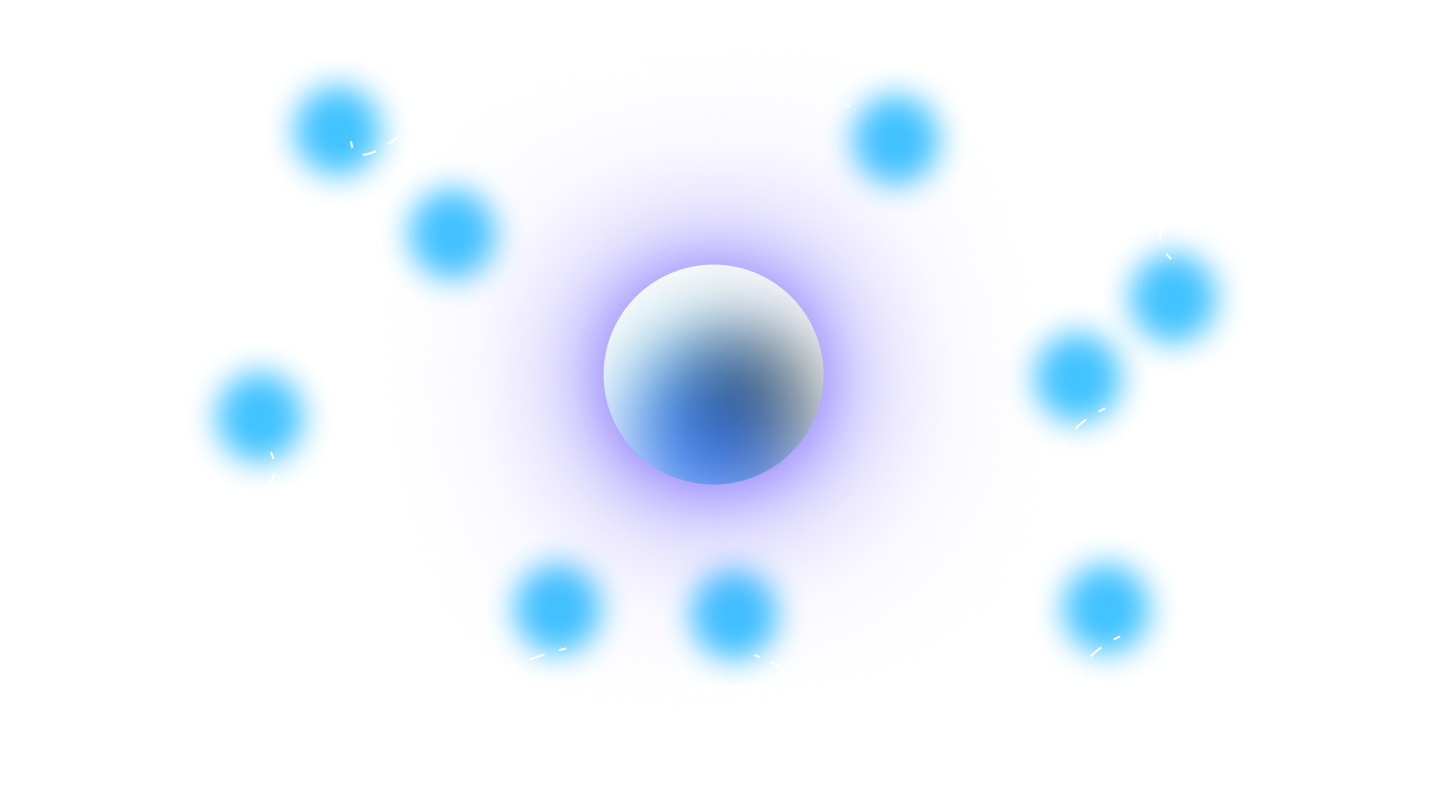
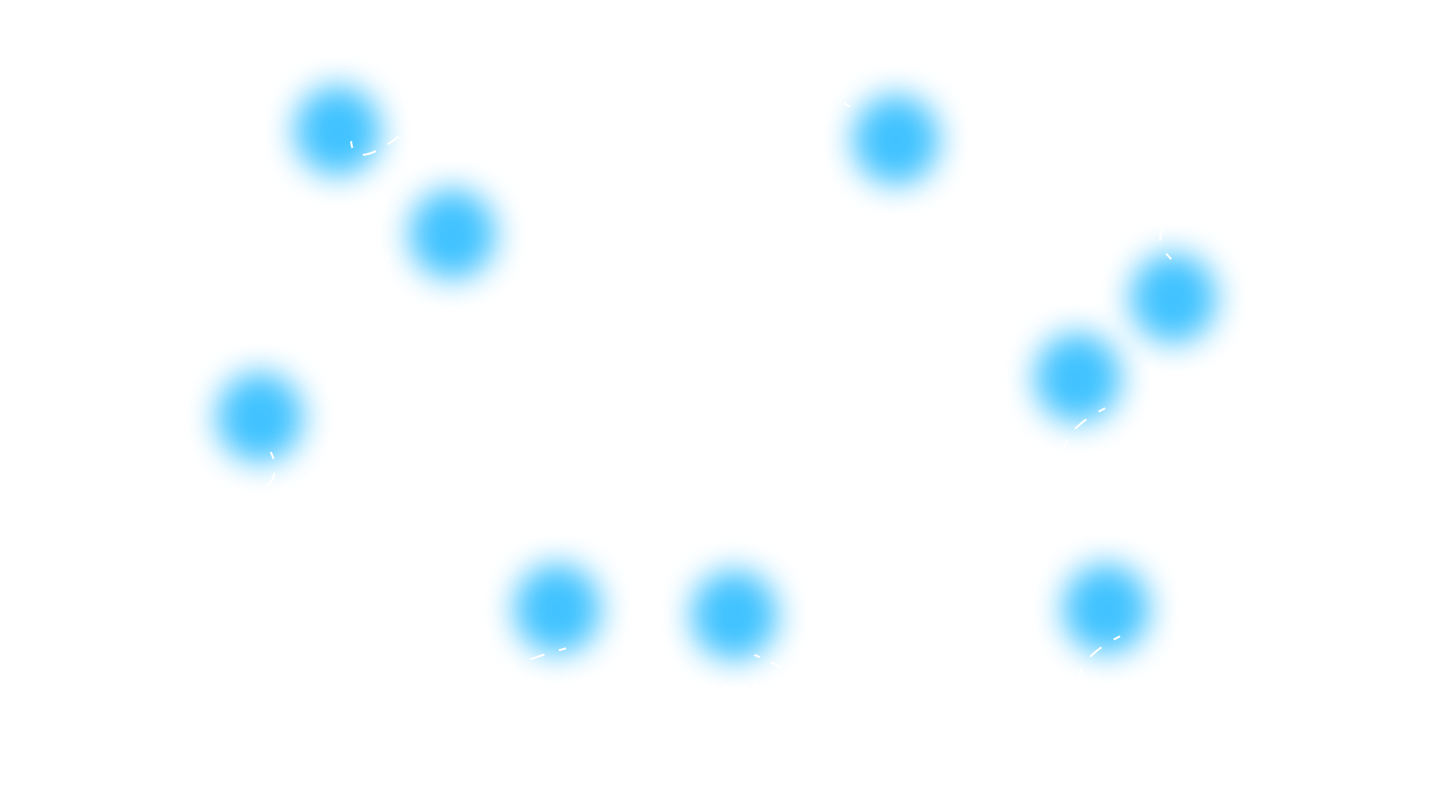
changes

Changed region(s): [[0.3682, 0.2491, 0.6444, 0.7161]]

diff --git a/components/TransitionScreen.tsx b/components/TransitionScreen.tsx
@@ -4,16 +4,41 @@ import { motion, AnimatePresence } from "framer-motion"
 import { useRouter } from "next/navigation"
 import TeamSection from "./TeamSection"
 
-export default function TransitionScreen() {
+export default function TransitionScreen({
+    isAnimating = false,
+    spherePosition = { x: 0, y: 0 },
+    onAnimationComplete = () => { },
+}) {
     const [showFourthScreen, setShowFourthScreen] = useState(false)
     const [showTeam, setShowTeam] = useState(false)
+    const [sphereArrived, setSphereArrived] = useState(false)
     const router = useRouter()
     const containerRef = useRef<HTMLDivElement>(null)
+    const orbitRef = useRef<HTMLDivElement>(null)
+    const sphereRef = useRef<HTMLDivElement>(null)
 
     useEffect(() => {
+        // Show the orbit services image after a delay
         const timer = setTimeout(() => {
             setShowFourthScreen(true)
         }, 500)
+
+        // Start animation sequence if isAnimating is true
+        if (isAnimating) {
+            // Mark as arrived after animation completes
+            const arrivalTimer = setTimeout(() => {
+                setSphereArrived(true)
+
+                // Notify parent component that animation is complete
+                setTimeout(() => {
+                    onAnimationComplete()
+                }, 500) // Give a little time for the arrival animation to play
+            }, 3500)
+
+            return () => {
+                clearTimeout(arrivalTimer)
+            }
+        }
 
         const handleScroll = () => {
             if (containerRef.current) {
@@ -32,10 +57,122 @@ export default function TransitionScreen() {
             clearTimeout(timer)
             window.removeEventListener("scroll", handleScroll)
         }
-    }, [router])
+    }, [isAnimating, onAnimationComplete])
+
+    // Calculate the center of the screen and orbit
+    // Adjust the target position to be 15% above the center, then move down by 38px (approximately 1cm)
+    const screenCenterY = typeof window !== "undefined" ? window.innerHeight / 2 : 0
+    const targetPositionY = typeof window !== "undefined" ? screenCenterY - window.innerHeight * 0.15 + 38 : 0
+    const screenCenterX = typeof window !== "undefined" ? window.innerWidth / 2 : 0
 
     return (
-        <div ref={containerRef} className="relative min-h-screen overflow-x-hidden ">
+        <div ref={containerRef} className="relative min-h-screen overflow-x-hidden">
+            {/* Animated sphere */}
+            {isAnimating && !sphereArrived && (
+                <>
+                    {/* Vertical guide line */}
+                    <motion.div
+                        className="fixed z-40 pointer-events-none"
+                        initial={{ opacity: 0, height: 0 }}
+                        animate={{ opacity: 0.6, height: targetPositionY - spherePosition.y }}
+                        transition={{ duration: 3, ease: "easeInOut" }}
+                        style={{
+                            position: "fixed",
+                            top: spherePosition.y,
+                            left: "50%",
+                            width: "4px",
+                            background: "linear-gradient(to bottom, rgba(255,255,255,0.8), rgba(255,255,255,0.2))",
+                            transformOrigin: "top",
+                            marginLeft: "-2px",
+                        }}
+                    />
+
+                    {/* Traveling sphere that shrinks as it descends */}
+                    <motion.div
+                        ref={sphereRef}
+                        className="fixed z-50 pointer-events-none"
+                        initial={{
+                            top: spherePosition.y,
+                            left: "50%",
+                            x: "-50%",
+                            y: "-50%",
+                            scale: 1,
+                            opacity: 1,
+                        }}
+                        animate={{
+                            top: targetPositionY,
+                            scale: [1, 0.9, 0.8, 0.7, 0.6, 0.5],
+                            opacity: 1,
+                            filter: [
+                                "brightness(1.7) drop-shadow(0 0 60px rgba(255,255,255,1))",
+                                "brightness(1.6) drop-shadow(0 0 55px rgba(255,255,255,0.95))",
+                                "brightness(1.5) drop-shadow(0 0 50px rgba(255,255,255,0.9))",
+                                "brightness(1.4) drop-shadow(0 0 45px rgba(255,255,255,0.85))",
+                                "brightness(1.3) drop-shadow(0 0 40px rgba(255,255,255,0.8))",
+                                "brightness(1.2) drop-shadow(0 0 35px rgba(255,255,255,0.75))",
+                            ],
+                        }}
+                        transition={{
+                            duration: 3,
+                            ease: "easeInOut",
+                            times: [0, 0.2, 0.4, 0.6, 0.8, 1],
+                        }}
+                        style={{
+                            width: "800px",
+                            height: "800px",
+                            position: "fixed",
+                        }}
+                    >
+                        <img src="./Frame 78.png" alt="Traveling Sphere" className="w-full h-full object-contain" />
+                    </motion.div>
+
+                    {/* Glow trail */}
+                    <motion.div
+                        className="fixed z-40 pointer-events-none"
+                        initial={{ opacity: 0 }}
+                        animate={{ opacity: [0, 0.6, 0.4, 0.2, 0] }}
+                        transition={{ duration: 3, times: [0, 0.2, 0.4, 0.7, 1] }}
+                        style={{
+                            position: "fixed",
+                            top: spherePosition.y,
+                            left: "50%",
+                            width: "200px",
+                            height: targetPositionY - spherePosition.y,
+                            background: "linear-gradient(to bottom, rgba(255,255,255,0), rgba(255,255,255,0.3), rgba(255,255,255,0))",
+                            borderRadius: "100px",
+                            marginLeft: "-100px",
+                        }}
+                    />
+
+                    {/* Destination indicator */}
+                    <motion.div
+                        className="fixed z-40 pointer-events-none"
+                        initial={{ opacity: 0, scale: 0 }}
+                        animate={{
+                            opacity: [0, 0.7, 0.5, 0.7, 0.5],
+                            scale: [0, 1, 0.8, 1, 0.8],
+                        }}
+                        transition={{
+                            duration: 2.5,
+                            times: [0, 0.25, 0.5, 0.75, 1],
+                            repeat: Number.POSITIVE_INFINITY,
+                            repeatType: "loop",
+                        }}
+                        style={{
+                            position: "fixed",
+                            top: targetPositionY,
+                            left: "50%",
+                            width: "100px",
+                            height: "100px",
+                            borderRadius: "50%",
+                            border: "3px dashed white",
+                            marginLeft: "-50px",
+                            marginTop: "-50px",
+                        }}
+                    />
+                </>
+            )}
+
             <div
                 className="relative w-full h-screen overflow-hidden"
                 style={{ background: "linear-gradient(to bottom, #044CD9, #1C67FB)" }}
@@ -53,12 +190,71 @@ export default function TransitionScreen() {
                         </motion.div>
                     ) : (
                         <motion.div
+                            ref={orbitRef}
                             key="fourth-screen"
                             initial={{ opacity: 0 }}
                             animate={{ opacity: 1 }}
                             transition={{ duration: 0.5, ease: "easeInOut" }}
                             className="absolute inset-0 flex items-center justify-center"
+                            id="orbit-center"
                         >
+                            {/* Center sphere that appears when the hero sphere "arrives" */}
+                            {sphereArrived && (
+                                <motion.div
+                                    className="absolute z-40 flex items-center justify-center"
+                                    initial={{ scale: 0.5, opacity: 0.75 }}
+                                    animate={{
+                                        scale: 0.5,
+                                        opacity: [0.75, 0.85, 0.95, 1, 0.95, 0.85, 0.75],
+                                        filter: [
+                                            "brightness(1.2) drop-shadow(0 0 35px rgba(255,255,255,0.75))",
+                                            "brightness(1.4) drop-shadow(0 0 40px rgba(255,255,255,0.85))",
+                                            "brightness(1.6) drop-shadow(0 0 45px rgba(255,255,255,0.95))",
+                                            "brightness(1.8) drop-shadow(0 0 50px rgba(255,255,255,1))",
+                                            "brightness(1.6) drop-shadow(0 0 45px rgba(255,255,255,0.95))",
+                                            "brightness(1.4) drop-shadow(0 0 40px rgba(255,255,255,0.85))",
+                                            "brightness(1.2) drop-shadow(0 0 35px rgba(255,255,255,0.75))",
+                                        ],
+                                    }}
+                                    transition={{
+                                        duration: 3,
+                                        repeat: Number.POSITIVE_INFINITY,
+                                        repeatType: "loop",
+                                    }}
+                                    style={{
+                                        top: targetPositionY,
+                                        left: "50%",
+                                        x: "-50%",
+                                        y: "-50%",
+                                        position: "absolute",
+                                    }}
+                                >
+                                    <img src="./Frame 78.png" alt="Center Sphere" className="w-[800px] h-[800px] object-contain" />
+                                </motion.div>
+                            )}
+
+                            {/* Orbit activation effect */}
+                            {sphereArrived && (
+                                <motion.div
+                                    className="absolute z-30 flex items-center justify-center"
+                                    initial={{ opacity: 0, scale: 0 }}
+                                    animate={{
+                                        opacity: [0, 0.8, 0.6, 0.4, 0.2, 0],
+                                        scale: [0, 1, 1.5, 2, 2.5, 3],
+                                    }}
+                                    transition={{ duration: 2, ease: "easeOut" }}
+                                    style={{
+                                        top: targetPositionY,
+                                        left: "50%",
+                                        x: "-50%",
+                                        y: "-50%",
+                                        position: "absolute",
+                                    }}
+                                >
+                                    <div className="w-96 h-96 rounded-full bg-white opacity-70 shadow-[0_0_30px_15px_rgba(255,255,255,0.6)]" />
+                                </motion.div>
+                            )}
+
                             <img src="/orbit-services.png" alt="ValuuHub Services Details" className="w-full h-full object-contain" />
                         </motion.div>
                     )}

diff --git a/components/Hero.tsx b/components/Hero.tsx
@@ -1,25 +1,79 @@
 "use client"
-import { useState } from "react"
-import { motion } from "framer-motion"
+import { useState, useRef } from "react"
+import { motion, useScroll } from "framer-motion"
 import TransitionScreen from "./TransitionScreen"
 
 export default function Hero() {
   const [showTransition, setShowTransition] = useState(false)
+  const [isAnimating, setIsAnimating] = useState(false)
+  const [spherePosition, setSpherePosition] = useState({ x: 0, y: 0 })
+  const [hideOriginalSphere, setHideOriginalSphere] = useState(false)
+  const heroRef = useRef<HTMLDivElement>(null)
+  const sphereRef = useRef<HTMLDivElement>(null)
+  const transitionRef = useRef<HTMLDivElement>(null)
+
+  // Track scroll position for animations
+  const { scrollYProgress } = useScroll({
+    target: heroRef,
+    offset: ["start start", "end start"],
+  })
 
   function handleGetInTouch() {
+    // Capture the current position of the sphere for animation
+    if (sphereRef.current) {
+      const rect = sphereRef.current.getBoundingClientRect()
+      setSpherePosition({
+        x: rect.left + rect.width / 2,
+        y: rect.top + rect.height / 2,
+      })
+    }
+
+    // Immediately hide the original sphere
+    setHideOriginalSphere(true)
+    setIsAnimating(true)
     setShowTransition(true)
-    // Scroll to the transition section after a short delay
+
+    // Scroll to transition section with a much slower speed
     setTimeout(() => {
       const transitionSection = document.getElementById("transition-section")
       if (transitionSection) {
-        transitionSection.scrollIntoView({ behavior: "smooth" })
+        // Use a custom scroll function for slower scrolling
+        const startPosition = window.pageYOffset
+        const targetPosition = transitionSection.offsetTop
+        const distance = targetPosition - startPosition
+        const duration = 3000 // 3 seconds for scrolling (increased for smoother effect)
+        let start: number | null = null
+
+        function step(timestamp: number) {
+          if (!start) start = timestamp
+          const progress = timestamp - start
+          const percentage = Math.min(progress / duration, 1)
+
+          // Use easeInOutQuad easing function for smoother scrolling
+          const easeInOutQuad = (t: number) => (t < 0.5 ? 2 * t * t : 1 - Math.pow(-2 * t + 2, 2) / 2)
+
+          window.scrollTo(0, startPosition + distance * easeInOutQuad(percentage))
+
+          if (progress < duration) {
+            window.requestAnimationFrame(step)
+          }
+        }
+
+        window.requestAnimationFrame(step)
       }
-    }, 100)
+    }, 300) // Longer delay before scrolling starts
+
+    // Show the original sphere again after the animation completes
+    setTimeout(() => {
+      setHideOriginalSphere(false)
+      setIsAnimating(false)
+    }, 5000)
   }
 
   return (
     <>
       <section
+        ref={heroRef}
         className="relative w-full text-white px-6 pt-16 pb-8 text-center overflow-hidden min-h-screen flex flex-col"
         style={{
           background: "linear-gradient(to bottom, #03369B, #044CD9)",
@@ -163,13 +217,30 @@ export default function Hero() {
                 </motion.button>
               </div>
 
-              {/* Sphere */}
+              {/* Sphere - hide when animation is in progress */}
               <motion.div
-                className="cursor-pointer flex items-center justify-center"
+                ref={sphereRef}
+                className={`cursor-pointer flex items-center justify-center ${hideOriginalSphere ? "opacity-0" : "opacity-100"}`}
                 onClick={handleGetInTouch}
                 whileHover={{
                   filter: "brightness(1.5) drop-shadow(0 0 40px rgba(255,255,255,1))",
                 }}
+                animate={
+                  !isAnimating
+                    ? {
+                      filter: [
+                        "brightness(1.2) drop-shadow(0 0 20px rgba(255,255,255,0.2))",
+                        "brightness(1.4) drop-shadow(0 0 30px rgba(255,255,255,0.9))",
+                        "brightness(1.2) drop-shadow(0 0 20px rgba(255,255,255,0.2))",
+                      ],
+                      transition: {
+                        repeat: Number.POSITIVE_INFINITY,
+                        duration: 1,
+                      },
+                    }
+                    : {}
+                }
+                transition={{ duration: 0.5 }} // Smooth transition for opacity
               >
                 <motion.img
                   src="./Frame 78.png"
@@ -177,17 +248,6 @@ export default function Hero() {
                   className="w-[800px] h-[800px] object-contain"
                   style={{
                     filter: "brightness(1.2) drop-shadow(0 0 20px rgba(255,255,255,0.7))",
-                  }}
-                  animate={{
-                    filter: [
-                      "brightness(1.2) drop-shadow(0 0 20px rgba(255,255,255,0.2))",
-                      "brightness(1.4) drop-shadow(0 0 30px rgba(255,255,255,0.9))",
-                      "brightness(1.2) drop-shadow(0 0 20px rgba(255,255,255,0.2))",
-                    ],
-                  }}
-                  transition={{
-                    repeat: Number.POSITIVE_INFINITY,
-                    duration: 1,
                   }}
                 />
               </motion.div>
@@ -198,8 +258,15 @@ export default function Hero() {
 
       {/* Transition Section */}
       {showTransition && (
-        <div id="transition-section" className="w-full">
-          <TransitionScreen />
+        <div id="transition-section" ref={transitionRef} className="w-full">
+          <TransitionScreen
+            isAnimating={isAnimating}
+            spherePosition={spherePosition}
+            onAnimationComplete={() => {
+              setHideOriginalSphere(false)
+              setIsAnimating(false)
+            }}
+          />
         </div>
       )}
     </>
